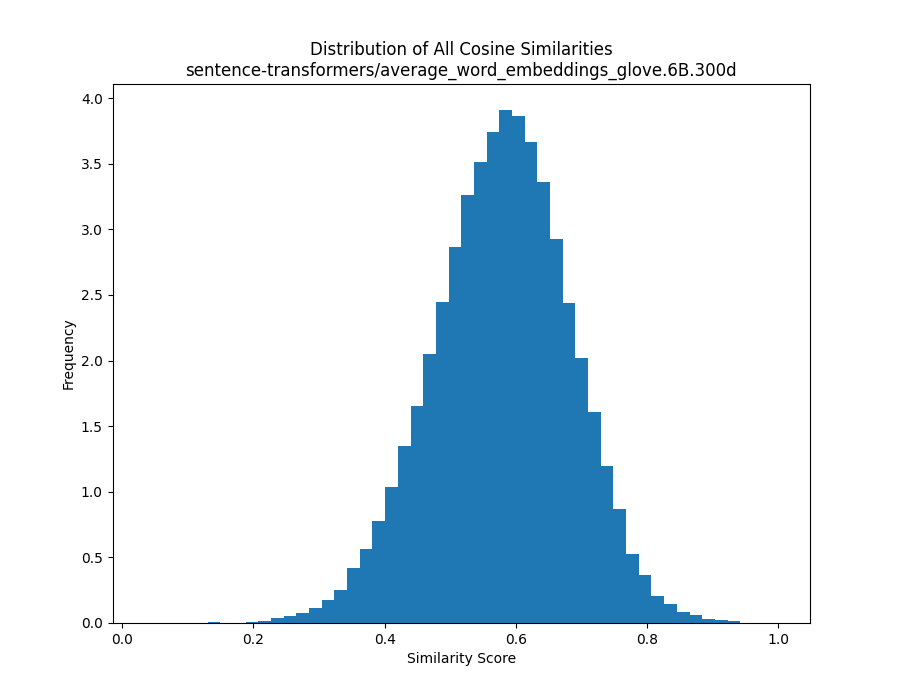
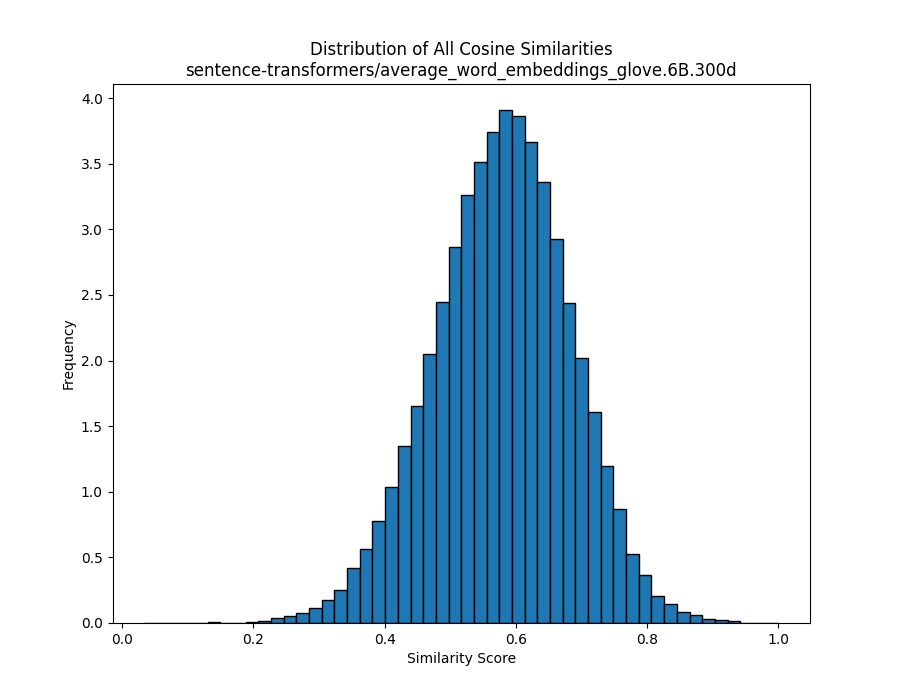
comparison graphs

Changed region(s): [[0.28, 0.15, 0.8089, 0.9]]

diff --git a/histograms.py b/histograms.py
@@ -1,0 +1,107 @@
+from sentence_transformers import SentenceTransformer
+import numpy as np
+import matplotlib.pyplot as plt
+from chooseModel import chooseModel
+
+
+def histogramPairs(documents, model):
+    ######################################################################################
+    # Array for Histogram of Justificatino Pairs with Matching Scenarios
+    lowerTriangleSim = []
+    for i in range(0, len(documents), 4):
+        chunk = documents[i:i+4]
+        embeddings = model.encode(chunk, normalize_embeddings=True)
+
+        #for e5 models
+        # queries = []
+        # for each in chunk:
+        #     queries.append(f"query: {each}")
+        # embeddings = model.encode(queries, normalize_embeddings=True) 
+    
+        similarities = model.similarity(embeddings, embeddings)
+        similarities = [[j.item() for j in row] for row in similarities]
+        
+        for m in range(len(similarities)):
+            for n in range(m):
+                lowerTriangleSim.append(round(similarities[m][n], 4))
+    # print(lowerTriangle)
+    ######################################################################################
+    # Array for histogram of All Justification Pairs 
+    embeddings = model.encode(documents, normalize_embeddings=True)
+
+    #for e5 models
+    # queriesAll = []
+    # for each in documents:
+    #     queriesAll.append(f"query: {each}")
+    # embeddings = model.encode(queriesAll, normalize_embeddings=True)
+
+    # Get cosine similarity
+    similarities = model.similarity(embeddings, embeddings)
+
+    lowerTriangleAll = []
+    for i in range(len(documents)):
+        for j in range(i):
+            lowerTriangleAll.append(similarities[i][j].item())
+
+    return lowerTriangleAll, lowerTriangleSim
+
+with open('Justifications1Col.txt', 'r') as file:
+    documents = file.readlines()
+
+documents = [line.strip() for line in documents]
+# modelName = chooseModel()
+modelName = 'sentence-transformers/all-mpnet-base-v2'
+model = SentenceTransformer(modelName)
+arr1, arr2 = histogramPairs(documents, model)
+fig, axes = plt.subplots(nrows=2, ncols=4)
+axes[0][0].hist(arr1, range=(-.1,1), bins=50, density=True, edgecolor='black')
+axes[0][0].set_title('all-mpnet-base-v2\nAll Justification Pairs', fontweight='bold', fontsize=9, wrap=True)
+axes[0][0].set_ylabel('Frequency')
+
+axes[1][0].hist(arr2, range=(-.1,1), bins=15, density=True, edgecolor='black')
+axes[1][0].set_title('Matching Scenarios Only', fontweight='bold', fontsize=8, wrap=True)
+axes[1][0].set_ylabel('Frequency')
+axes[1][0].set_xlabel('Similarity Score')
+
+modelName = 'sentence-transformers/average_word_embeddings_glove.6B.300d'
+model = SentenceTransformer(modelName)
+arr3, arr4 = histogramPairs(documents, model)
+axes[0][1].hist(arr3, range=(-.1,1), bins=50, density=True, edgecolor='black')
+axes[0][1].set_title('average_word_embeddings_glove.6B.300d\nAll Justification Pairs', fontweight='bold', fontsize=9, wrap=True)
+# axes[0][1].set_ylabel('Frequency')
+
+axes[1][1].hist(arr4, range=(-.1,1), bins=15, density=True, edgecolor='black')
+axes[1][1].set_title('Matching Scenarios Only', fontweight='bold', fontsize=8, wrap=True)
+# axes[1][1].set_ylabel('Frequency')
+axes[1][1].set_xlabel('Similarity Score')
+
+modelName = 'sentence-transformers/sentence-t5-xl'
+model = SentenceTransformer(modelName)
+arr5, arr6 = histogramPairs(documents, model)
+axes[0][2].hist(arr5, range=(-.1,1), bins=50, density=True, edgecolor='black')
+axes[0][2].set_title('sentence-t5-xl\nAll Justification Pairs', fontweight='bold', fontsize=9, wrap=True)
+# axes[0][2].set_ylabel('Frequency')
+
+axes[1][2].hist(arr6, range=(-.1,1), bins=15, density=True, edgecolor='black')
+axes[1][2].set_title('Matching Scenarios Only', fontweight='bold', fontsize=8, wrap=True)
+# axes[1][2].set_ylabel('Frequency')
+axes[1][2].set_xlabel('Similarity Score')
+
+modelName = 'intfloat/e5-large-v2'
+model = SentenceTransformer(modelName)
+arr7, arr8 = histogramPairs(documents, model)
+axes[0][3].hist(arr7, range=(-.1,1), bins=50, density=True, edgecolor='black')
+axes[0][3].set_title('e5-large-v2\nAll Justification Pairs', fontweight='bold', fontsize=9, wrap=True)
+# axes[0][3].set_ylabel('Frequency')
+
+axes[1][3].hist(arr8, range=(-.1,1), bins=15, density=True, edgecolor='black')
+axes[1][3].set_title('Matching Scenarios Only', fontweight='bold', fontsize=8, wrap=True)
+# axes[1][3].set_ylabel('Frequency')
+axes[1][3].set_xlabel('Similarity Score')
+
+# plt.savefig(f'results/{modelName}/graphs/dualHist.png')
+
+plt.show()
+
+#########################################################################################
+plt.close()

diff --git a/compareBar.py b/compareBar.py
@@ -1,0 +1,70 @@
+from sentence_transformers import SentenceTransformer
+import numpy as np
+import matplotlib.pyplot as plt
+import pandas as pd
+from chooseModel import chooseModel
+
+modelName = chooseModel()   
+model = SentenceTransformer(modelName)
+    # "dunzhang/stella_en_1.5B_v5", trust_remote_code=True)
+    # "dunzhang/stella_en_400M_v5",
+    # trust_remote_code=True,
+    # device="cpu",
+    # config_kwargs={"use_memory_efficient_attention": False, "unpad_inputs": False})
+
+with open('Justifications1Col.txt', 'r') as file:
+    documents = file.readlines()
+
+documents = [line.strip() for line in documents]
+lowerTriangle = []
+for i in range(0, len(documents), 4):
+    chunk = documents[i:i+4]
+    embeddings = model.encode(chunk, normalize_embeddings=True)  
+    similarities = model.similarity(embeddings, embeddings)
+    similarities = [[j.item() for j in row] for row in similarities]
+    
+    for m in range(len(similarities)):
+        for n in range(m):
+            lowerTriangle.append(round(similarities[m][n], 2))
+
+seperatedPairs = [[],[],[],[],[],[]]
+pairMedians = []
+
+for j in range(6):
+    for i in range(j, len(lowerTriangle), 6):
+        seperatedPairs[j].append(lowerTriangle[i])
+
+for pair in seperatedPairs:
+    pairMedians.append(np.median(pair))
+
+for median in pairMedians:
+    print(median)
+
+lsaAllScenario = [0.56, 0.69, 0.59, 0.62, 0.56, 0.74]
+lsaTruth0 = [0.55, 0.66, 0.51, 0.59, 0.59, 0.77]
+lsaTruth1 = [0.59, 0.73, 0.66, 0.64, 0.55, 0.76]
+
+xLabels = ["0ShotCoT/\n0Shot", "1Shot/\n0Shot", "1Shot/\n0ShotCoT", "2shot/\n0Shot", "2Shot/\n0ShotCoT", "2Shot/\n1Shot"]
+# plt.figure(figsize=(9, 7))
+
+x = np.arange(len(xLabels))
+width = 0.35
+
+# fig, ax = plt.subplots()
+plt.figure(figsize=(9, 7))
+rect1 = plt.bar(x-width/2, lsaAllScenario, width, label='LSA')
+plt.bar_label(rect1, padding=3)
+rect2 = plt.bar(x+width/2, pairMedians, width, label='LLM')
+plt.bar_label(rect2, padding=3)
+
+plt.title(f'Median Similarity Scores Across Same Scenario Pairs\n{modelName}', pad=10)
+plt.ylabel('Median Similarity Score')
+plt.xlabel('Justification Pairs')
+# ax.set_xticks(x + width, xLabels)
+plt.xticks(x, xLabels)
+plt.legend(loc='upper left', ncols=2)
+plt.savefig(f'results/{modelName}/graphs/compareBar.png') 
+plt.show()
+plt.close()
+
+

diff --git a/individual.py b/individual.py
@@ -1,0 +1,49 @@
+from sentence_transformers import SentenceTransformer, SimilarityFunction
+import numpy as np
+import matplotlib.pyplot as plt
+from chooseModel import chooseModel
+
+modelName = chooseModel()   
+model = SentenceTransformer(modelName)
+    # "dunzhang/stella_en_1.5B_v5", trust_remote_code=True)
+    # "dunzhang/stella_en_400M_v5",
+    # trust_remote_code=True,
+    # device="cpu",
+    # config_kwargs={"use_memory_efficient_attention": False, "unpad_inputs": False})
+
+##########################################################################################
+
+
+with open('Justifications1Col.txt', 'r') as file:
+    documents = file.readlines()
+
+documents = [line.strip() for line in documents]
+embeddings = model.encode(documents, normalize_embeddings=False)
+
+# #for e5 models
+# queries = []
+# for each in documents:
+#     queries.append(f"query: {each}")
+# embeddings = model.encode(queries, normalize_embeddings=False)
+
+#########################################################################################
+
+# Get cosine similarity
+similarities = model.similarity(embeddings, embeddings)
+
+
+lowerTriangle = []
+for i in range(len(documents)):
+    for j in range(i):
+        lowerTriangle.append(similarities[i][j].item())
+plt.figure(figsize=(9, 7))
+plt.hist(lowerTriangle, 50, density=True, edgecolor='black')
+plt.title(f'Distribution of All Cosine Similarities\n{modelName}')
+plt.xlabel('Similarity Score')
+plt.ylabel('Frequency')
+plt.savefig(f'results/{modelName}/graphs/allScenHist.png')
+
+plt.show()
+
+#########################################################################################
+plt.close()

diff --git a/kmeans.py b/kmeans.py
@@ -53,7 +53,7 @@ labels = kmeans.labels_
 plt.figure(figsize=(8, 6))
 plt.scatter(kmeans.cluster_centers_[:, 0], kmeans.cluster_centers_[:, 1], marker='*', s=150, c='Chartreuse', label='Centroids')
 plt.scatter(reduced_embeddings[:, 0], reduced_embeddings[:, 1], c=labels)
-plt.title("K-means Clustering")
+plt.title(f"K-means Clustering\n{modelName}", pad=10)
 
 for i in range(0, len(reduced_embeddings), 4):
     # group by scenario
@@ -72,25 +72,6 @@ for i in range(0, len(reduced_embeddings), 4):
 for i, (x, y) in enumerate(reduced_embeddings):
     plt.annotate(i, (x, y), textcoords="offset points", xytext=(0,10), ha='center')  
 plt.show()
-
-#########################################################################################
-
-# # Get cosine similarity
-# similarities = model.similarity(embeddings, embeddings)
-
-
-# lowerTriangle = []
-# for i in range(len(documents)):
-#     for j in range(i):
-#         lowerTriangle.append(similarities[i][j].item())
-# plt.figure(figsize=(9, 7))
-# plt.hist(lowerTriangle, 50, density=True)
-# plt.title(f'Distribution of All Cosine Similarities\n{modelName}')
-# plt.xlabel('Similarity Score')
-# plt.ylabel('Frequency')
-# plt.savefig(f'results/{modelName}/graphs/allScenHist.png')
-
-# plt.show()
 
 #########################################################################################
 plt.close()

diff --git a/modelBar.py b/modelBar.py
@@ -1,0 +1,34 @@
+import numpy as np
+import matplotlib.pyplot as plt
+import pandas as pd
+
+lsaAllScenario = [0.56, 0.69, 0.59, 0.62, 0.56, 0.74]
+lsaTruth0 = [0.55, 0.66, 0.51, 0.59, 0.59, 0.77]
+lsaTruth1 = [0.59, 0.73, 0.66, 0.64, 0.55, 0.76]
+glove = [0.80, 0.83, 0.81, 0.81, 0.79, 0.86]
+mpnet = [0.76, 0.75, 0.79, 0.72, 0.73,0.85]
+miniLM = [0.75, 0.74, 0.76, 0.70, 0.72, 0.86]
+gtr_t5 = [0.81, 0.82, 0.82, 0.79, 0.79, 0.89]
+sentence_t5 = [0.90, 0.90, 0.90, 0.88, 0.88, 0.93]
+snowflake = [0.76, 0.75, 0.78, 0.71, 0.71, 0.85]
+e5 = [0.91, 0.91, 0.91, 0.89, 0.89, 0.93]
+
+xLabels = ["0ShotCoT/\n0Shot", "1Shot/\n0Shot", "1Shot/\n0ShotCoT", "2shot/\n0Shot", "2Shot/\n0ShotCoT", "2Shot/\n1Shot"]
+# plt.figure(figsize=(9, 7))
+method_means = pd.DataFrame({
+    'LSA': lsaAllScenario,
+    'GloVe': glove,
+    'all-mpnet-base-v2': mpnet,
+    'all-MiniLM-L12-v2': miniLM,
+    'sentence-t5-xl': sentence_t5,
+    'gtr-t5-xl': gtr_t5,
+    'snowflake-arctic-embed-l-v2.0': snowflake,
+    'e5-large-v2': e5,
+    # 'Truth 0': lsaTruth0,
+    # 'Truth 1': lsaTruth1,
+    }, index=xLabels)
+
+# print(df)
+method_means.plot.bar(rot=0, figsize=(9, 7), xlabel='Justification Pairs', ylabel='Median Similarity Score', title='Median Similarity Scores Across Same Scenario Pairs', legend=True)
+plt.show()
+plt.close()

diff --git a/chooseModel.py b/chooseModel.py
@@ -12,9 +12,9 @@ def chooseModel():
         # 'Snowflake/snowflake-arctic-embed-l-v2.0')
         # 'sentence-transformers/average_word_embeddings_glove.6B.300d')
         # 'sentence-transformers/average_word_embeddings_komninos')
-        # 'sentence-transformers/all-mpnet-base-v2')
+        'sentence-transformers/all-mpnet-base-v2')
         # 'sentence-transformers/all-MiniLM-L12-v2')
-        'sentence-transformers/sentence-t5-xl')
+        # 'sentence-transformers/sentence-t5-xl')
         # 'sentence-transformers/gtr-t5-xl')
         # "dunzhang/stella_en_1.5B_v5")
         # "dunzhang/stella_en_400M_v5")
